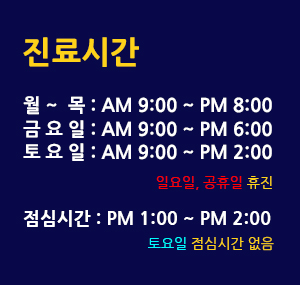
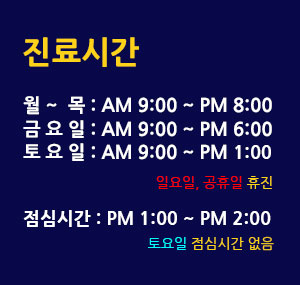
진료시간 변경안내 팝업 추가

diff --git a/src/main/webapp/resources/css/popup.css b/src/main/webapp/resources/css/popup.css
@@ -2,6 +2,14 @@
 
 body {margin: 0;}
 
+.btn_slides {border-top: 1px solid #dedede; font-size: 0;}
+.btn_slides > * {display: inline-block; padding: 10px 0; text-align: center;}
+.btn_slides .btnPrev {width: 30%;}
+.btn_slides .btnPrev .fas {font-size: 22px; color: #333;}
+.btn_slides .btnNext {width: 30%;}
+.btn_slides .btnNext .fas {font-size: 22px; color: #333;}
+.btn_slides .popup_number {width: 40%; font-family: '나눔 고딕'; font-weight: bold; font-size: 14px; vertical-align: top;}
+
 .btn_box {overflow: hidden; background: #f2f2f2;}
 .btn_box a {position: relative; display: inline-block; margin: 11px 15px; font-size: 14px; font-weight: 550; color: #333; text-decoration: none;}
 .btn_box a:hover {text-decoration: underline;}
@@ -13,4 +21,6 @@ body {margin: 0;}
             /* IE7 & 8 */ position: fixed; right: 0; top: 0; z-index: 99; display:none;}
 
 #popup_layer { width: 90%; margin-bottom:30px; background:#fff; border:solid 1px #ccc; position:absolute; 
-               top:260px; left:50%; box-shadow: 0px 1px 20px #333; z-index:100; display:none;}
+               top:260px; left:50%; box-shadow: 0px 1px 20px #333; z-index:100; display:none; font-size: 0;}
+               
+#popup_layer .popup_image {display: none;}               

diff --git a/src/main/java/com/dawn/barona/controller/PopUpController.java b/src/main/java/com/dawn/barona/controller/PopUpController.java
@@ -18,4 +18,10 @@ public class PopUpController {
 		
 		return "popup/popup_02";
 	}
+	
+	@RequestMapping("/popup_03.do")
+	public String goPopup03(){
+		
+		return "popup/popup_03";
+	}
 }
